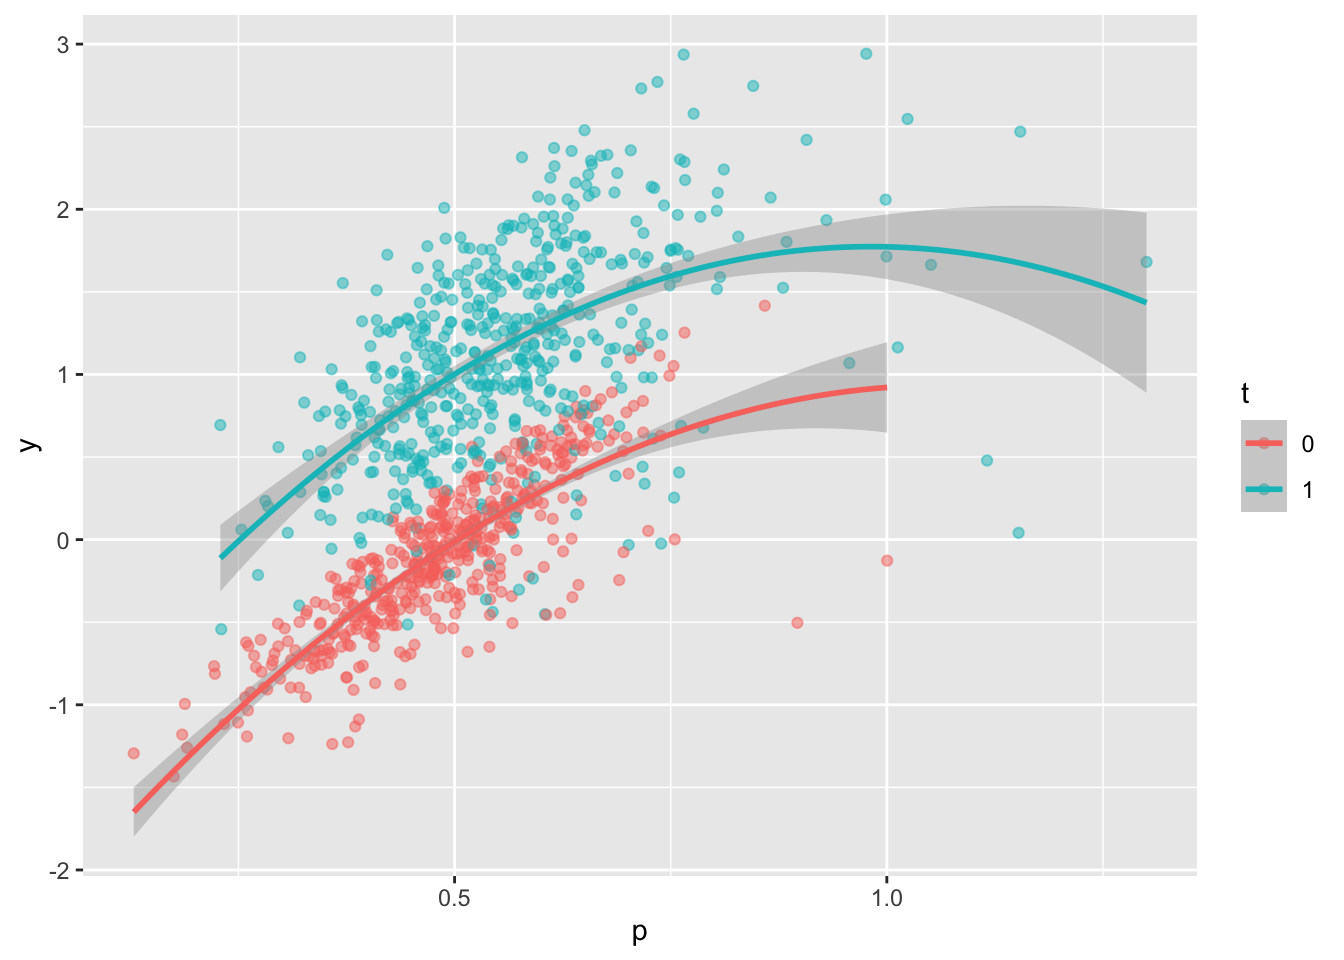
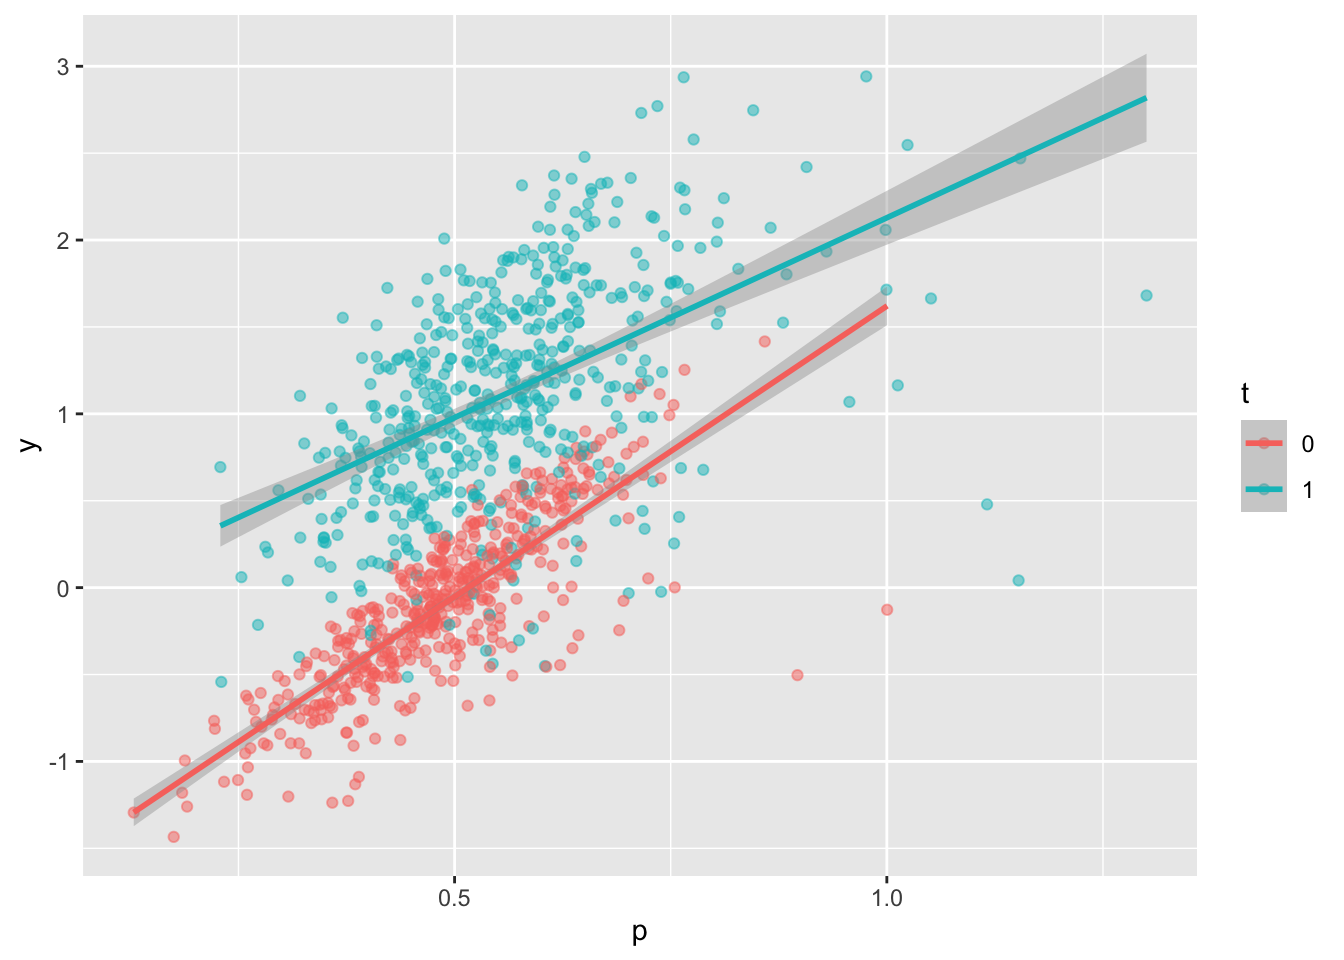
Built site for gh-pages

diff --git a/index.html b/index.html
@@ -221,7 +221,7 @@ ul.task-list li input[type="checkbox"] {
 <h2 class="anchored" data-anchor-id="latest-posts"><a href="./posts.html">Latest posts</a></h2>
 <div id="listing-latest-posts" class="quarto-listing quarto-listing-container-grid">
 <div class="list grid quarto-listing-cols-3">
-<div class="g-col-1" data-index="0" data-categories="halfmoon,balance,heterogeneous treatment effects" data-listing-date-sort="1691107200000" data-listing-file-modified-sort="1691377723732" data-listing-date-modified-sort="NaN" data-listing-reading-time-sort="16">
+<div class="g-col-1" data-index="0" data-categories="halfmoon,balance,heterogeneous treatment effects" data-listing-date-sort="1691107200000" data-listing-file-modified-sort="1691414423699" data-listing-date-modified-sort="NaN" data-listing-reading-time-sort="16">
 <a href="./posts/visual-diagnostic-tools/index.html" class="quarto-grid-link">
 <div class="quarto-grid-item card h-100 card-left">
 <p class="card-img-top">
@@ -246,7 +246,7 @@ Aug 4, 2023
 </div>
 </a>
 </div>
-<div class="g-col-1" data-index="1" data-categories="halfmoon,balance,packages" data-listing-date-sort="1685664000000" data-listing-file-modified-sort="1691377723732" data-listing-date-modified-sort="NaN" data-listing-reading-time-sort="7">
+<div class="g-col-1" data-index="1" data-categories="halfmoon,balance,packages" data-listing-date-sort="1685664000000" data-listing-file-modified-sort="1691414423695" data-listing-date-modified-sort="NaN" data-listing-reading-time-sort="7">
 <a href="./posts/introducing-halfmoon/index.html" class="quarto-grid-link">
 <div class="quarto-grid-item card h-100 card-left">
 <p class="card-img-top">
@@ -281,7 +281,7 @@ No matching items
 <h2 class="anchored" data-anchor-id="upcoming-courses"><a href="./posts.html">Upcoming courses</a></h2>
 <div id="listing-upcoming-courses" class="quarto-listing quarto-listing-container-grid">
 <div class="list grid quarto-listing-cols-3">
-<div class="g-col-1" data-index="0" data-categories="two-day workshop,posit::conf,in-person" data-listing-file-modified-sort="1691377723724" data-listing-reading-time-sort="1">
+<div class="g-col-1" data-index="0" data-categories="two-day workshop,posit::conf,in-person" data-listing-file-modified-sort="1691414423687" data-listing-reading-time-sort="1">
 <a href="./courses/posit-conf-2023/index.html" class="quarto-grid-link">
 <div class="quarto-grid-item card h-100 card-left">
 <p class="card-img-top">
@@ -303,7 +303,7 @@ Join us for a two-day workshop at the posit::conf(2023) conference! Available in
 </div>
 </a>
 </div>
-<div class="g-col-1" data-index="1" data-categories="two-day workshop,nyr,in-person,virtual" data-listing-file-modified-sort="1691377723724" data-listing-reading-time-sort="1">
+<div class="g-col-1" data-index="1" data-categories="two-day workshop,nyr,in-person,virtual" data-listing-file-modified-sort="1691414423687" data-listing-reading-time-sort="1">
 <a href="./courses/nyr-2023/index.html" class="quarto-grid-link">
 <div class="quarto-grid-item card h-100 card-left">
 <p class="card-img-top">

diff --git a/posts.html b/posts.html
@@ -177,7 +177,7 @@ ul.task-list li input[type="checkbox"] {
 
 <div class="quarto-listing quarto-listing-container-default" id="listing-listing">
 <div class="list quarto-listing-default">
-<div class="quarto-post image-right" data-index="0" data-categories="halfmoon,balance,heterogeneous treatment effects" data-listing-date-sort="1691107200000" data-listing-file-modified-sort="1691377723732" data-listing-date-modified-sort="NaN" data-listing-reading-time-sort="16">
+<div class="quarto-post image-right" data-index="0" data-categories="halfmoon,balance,heterogeneous treatment effects" data-listing-date-sort="1691107200000" data-listing-file-modified-sort="1691414423699" data-listing-date-modified-sort="NaN" data-listing-reading-time-sort="16">
 <div class="thumbnail">
 <p><a href="./posts/visual-diagnostic-tools/index.html"> <img src="./posts/visual-diagnostic-tools/image.png" class="thumbnail-image"> </a></p>
 </div>
@@ -218,7 +218,7 @@ Lucy D’Agostino McGowan
 </a>
 </div>
 </div>
-<div class="quarto-post image-right" data-index="1" data-categories="halfmoon,balance,packages" data-listing-date-sort="1685664000000" data-listing-file-modified-sort="1691377723732" data-listing-date-modified-sort="NaN" data-listing-reading-time-sort="7">
+<div class="quarto-post image-right" data-index="1" data-categories="halfmoon,balance,packages" data-listing-date-sort="1685664000000" data-listing-file-modified-sort="1691414423695" data-listing-date-modified-sort="NaN" data-listing-reading-time-sort="7">
 <div class="thumbnail">
 <p><a href="./posts/introducing-halfmoon/index.html"> <img src="./posts/introducing-halfmoon/image.png" class="thumbnail-image"> </a></p>
 </div>

diff --git a/posts/visual-diagnostic-tools/index.html b/posts/visual-diagnostic-tools/index.html
@@ -566,7 +566,7 @@ Coefficients:
 <div class="cell">
 <div class="sourceCode cell-code" id="cb20"><pre class="sourceCode r code-with-copy"><code class="sourceCode r"><span id="cb20-1"><a href="#cb20-1" aria-hidden="true" tabindex="-1"></a><span class="fu">ggplot</span>(data_nonlinear, <span class="fu">aes</span>(<span class="at">x =</span> p, <span class="at">y =</span> y, <span class="at">color =</span> t)) <span class="sc">+</span></span>
 <span id="cb20-2"><a href="#cb20-2" aria-hidden="true" tabindex="-1"></a>  <span class="fu">geom_point</span>(<span class="at">alpha =</span> <span class="fl">0.5</span>) <span class="sc">+</span> </span>
-<span id="cb20-3"><a href="#cb20-3" aria-hidden="true" tabindex="-1"></a>  <span class="fu">geom_smooth</span>(<span class="at">method =</span> <span class="st">"loess"</span>, <span class="at">formula =</span> <span class="st">"y ~ x"</span>, <span class="at">span =</span> <span class="dv">50</span>)</span></code><button title="Copy to Clipboard" class="code-copy-button"><i class="bi"></i></button></pre></div>
+<span id="cb20-3"><a href="#cb20-3" aria-hidden="true" tabindex="-1"></a>  <span class="fu">geom_smooth</span>(<span class="at">method =</span> <span class="st">"lm"</span>, <span class="at">formula =</span> <span class="st">"y ~ x"</span>, <span class="at">span =</span> <span class="dv">50</span>)</span></code><button title="Copy to Clipboard" class="code-copy-button"><i class="bi"></i></button></pre></div>
 <div class="cell-output-display">
 <p><img src="index_files/figure-html/unnamed-chunk-17-1.png" class="img-fluid" width="672"></p>
 </div>

diff --git a/courses.html b/courses.html
@@ -177,7 +177,7 @@ ul.task-list li input[type="checkbox"] {
 
 <div class="quarto-listing quarto-listing-container-default" id="listing-listing">
 <div class="list quarto-listing-default">
-<div class="quarto-post image-right" data-index="0" data-categories="two-day workshop,posit::conf,in-person" data-listing-file-modified-sort="1691377723724" data-listing-reading-time-sort="1">
+<div class="quarto-post image-right" data-index="0" data-categories="two-day workshop,posit::conf,in-person" data-listing-file-modified-sort="1691414423687" data-listing-reading-time-sort="1">
 <div class="thumbnail">
 <p><a href="./courses/posit-conf-2023/index.html"> <img src="./courses/posit-conf-2023/image.jpeg" class="thumbnail-image"> </a></p>
 </div>
@@ -211,7 +211,7 @@ Join us for a two-day workshop at the posit::conf(2023) conference! Available in
 <a href="./courses/posit-conf-2023/index.html"> </a>
 </div>
 </div>
-<div class="quarto-post image-right" data-index="1" data-categories="two-day workshop,nyr,in-person,virtual" data-listing-file-modified-sort="1691377723724" data-listing-reading-time-sort="1">
+<div class="quarto-post image-right" data-index="1" data-categories="two-day workshop,nyr,in-person,virtual" data-listing-file-modified-sort="1691414423687" data-listing-reading-time-sort="1">
 <div class="thumbnail">
 <p><a href="./courses/nyr-2023/index.html"> <img src="./courses/nyr-2023/image.png" class="thumbnail-image"> </a></p>
 </div>
